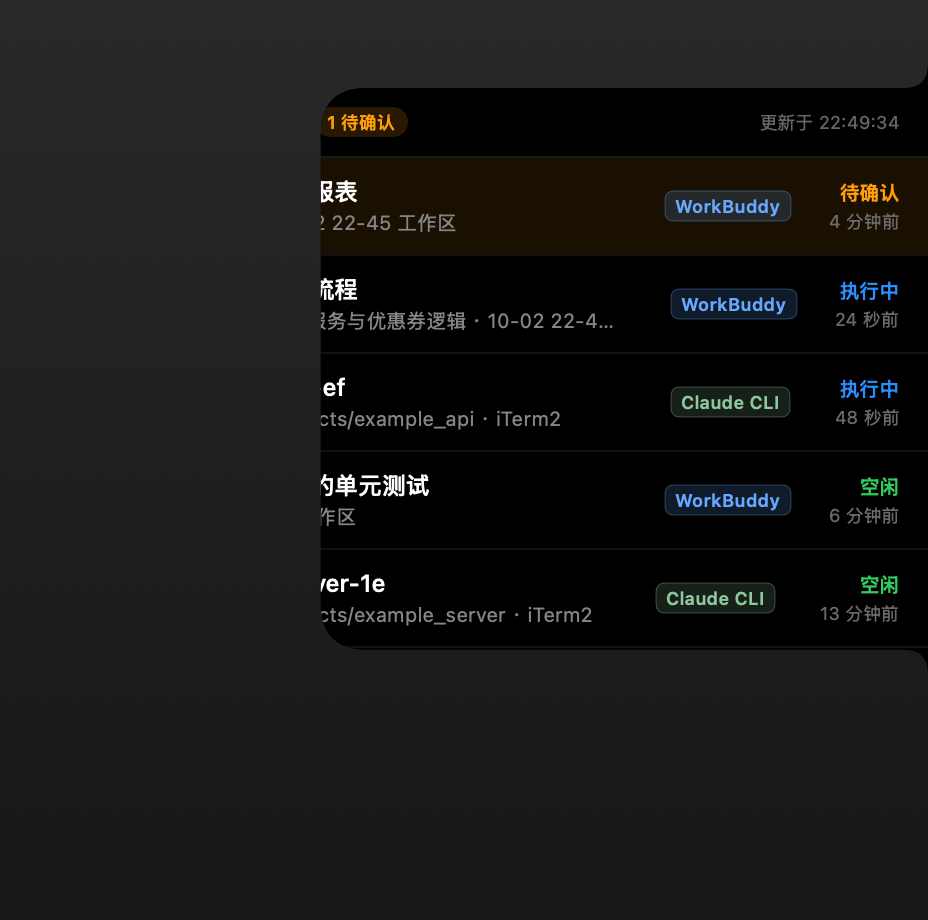
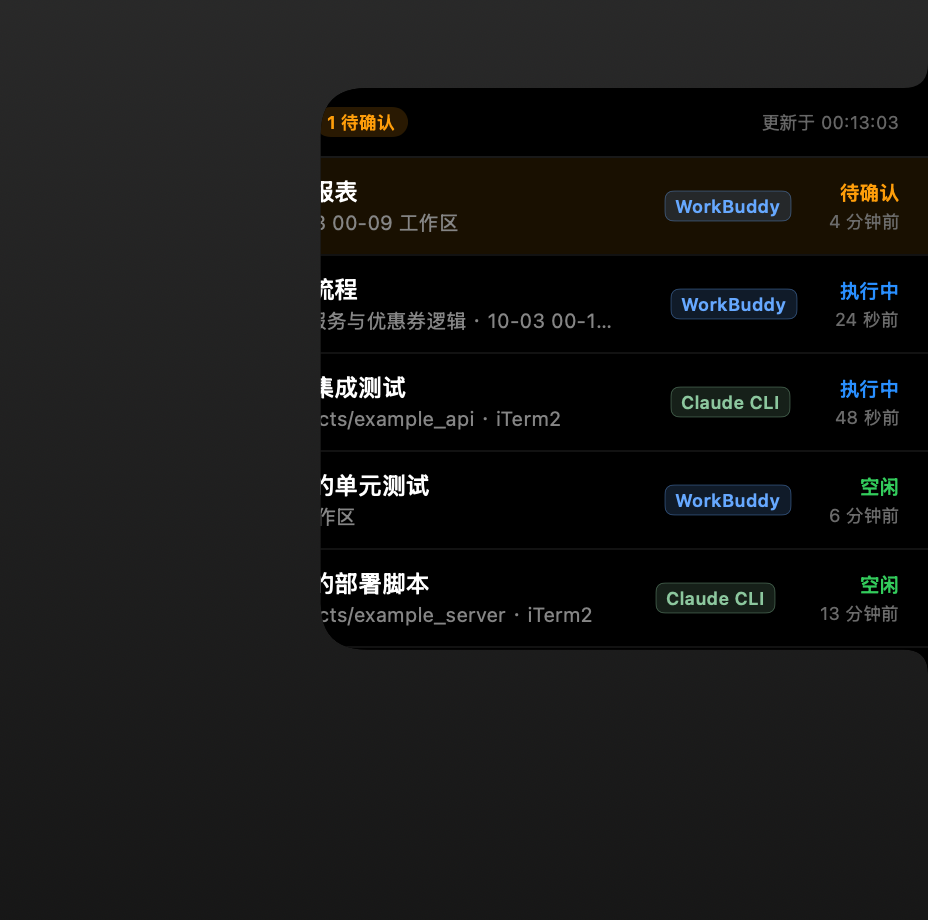
feat(cli): 任务行改用 Claude 自己起的会话标题
列表里 CLI 行的标题以前取的是注册表 ~/.claude/sessions/<pid>.json 里的 name，
那是派生的（kiki-2d、tool-webpage-01 这种），跟 iTerm2 标签页上看到的对不上。

Claude 真正起的标题写在会话记录 projects/<cwd>/<sessionId>.jsonl 的
{"type":"ai-title","aiTitle":"…"} 记录里，会随会话推进反复重写。
实测同一会话从 tool-webpage-01 变成「继续开发 notch_tasks Mac 应用」，
再变成 kiki-release-process。

- ClaudeSession 增加 aiTitle / displayTitle，标题优先用 aiTitle，取不到再退回派生名
- 只读记录文件尾部 256 KB 往前找最近一条（标题反复重写，尾部几乎总能命中）；
  尾部没命中再整文件扫，但设了 8 MB 上限，别为一个几十 MB 的记录拖住 2 秒轮询
- 按 mtime + size 缓存，轮询不会重复解析同一份记录；表超过 128 条就清空
- 按文件名 <sessionId>.jsonl 找记录，不去猜 cwd 到目录名的转义规则
- 从任意字节偏移切进去可能劈开多字节字符，解码失败就丢掉首行残缺部分
- 演示数据同步成这种标题，docs 截图重新生成

顺带在文档里记下一个容易误判的现象：~/.claude/sessions/ 会被 Claude Code
自己按日清理（~/.claude/.last-cleanup），清完那一刻目录是空的，
列表里没有 CLI 会话属于数据源正常行为，不是 App 读不到。

diff --git a/Sources/ClaudeStore.swift b/Sources/ClaudeStore.swift
@@ -6,7 +6,11 @@ struct ClaudeSession {
     var pid: pid_t
     var sessionID: String
     var cwd: String
+    /// 注册表里的会话名（多是派生的，如 `kiki-2d`）
     var name: String
+    /// Claude 自己起的会话标题，也就是它写进终端标签的那个名字
+    /// （读自会话记录的 `ai-title` 记录，见 ClaudeStore.transcriptTitle）
+    var aiTitle: String?
     var status: String        // busy / idle / waiting
     var waitingFor: String?   // 仅 status == waiting 时出现，例如 "permission prompt"
     var updatedAt: Date
@@ -17,23 +21,53 @@ struct ClaudeSession {
     var isBusy: Bool { status.lowercased() == "busy" }
     /// 停在等用户确认 / 授权
     var isWaiting: Bool { status.lowercased() == "waiting" }
+
+    /// 列表里显示的名字：优先用 Claude 起的标题（和终端标签对得上），
+    /// 会话刚开始、AI 还没来得及起标题时退回注册表里的派生名
+    var displayTitle: String {
+        if let t = aiTitle, !t.isEmpty { return t }
+        return name.isEmpty ? "claude" : name
+    }
 }
 
 /// 只读扫描 Claude Code 的会话注册表。
 ///
-/// 数据源：`~/.claude/sessions/<pid>.json`，形如
-/// `{"pid":44187,"sessionId":"…","cwd":"…","name":"crewup-api-ef","status":"idle","updatedAt":…}`
-/// `status` 已知取值：`busy`（干活）/ `idle`（等你输入）/ `waiting`（等你确认或授权，
-/// 此时会多一个 `waitingFor` 字段，例如 `"permission prompt"`）
-/// 文件名就是 PID，所以可以用 `kill(pid,0)` + `proc_pidpath` 判断会话是否还活着，
-/// 并排除 PID 被复用的情况。全程只读，不碰 Claude 的任何文件。
+/// 数据源有两处，都是只读：
+///
+/// 1. `~/.claude/sessions/<pid>.json`（文件名就是 PID）——「现在还活着哪些会话」
+///    ```json
+///    {"pid":44187,"sessionId":"…","cwd":"…","name":"kiki-2d","nameSource":"derived",
+///     "status":"busy","updatedAt":…,"statusUpdatedAt":…}
+///    ```
+///    `status` 已知取值：`busy`（干活）/ `idle`（等你输入）/ `waiting`（等你确认或授权，
+///    此时会多一个 `waitingFor` 字段，例如 `"permission prompt"`）
+///    文件名是 PID，所以可以用 `kill(pid,0)` + `proc_pidpath` 判断会话是否还活着，
+///    并排除 PID 被复用的情况。注意 **这个目录会被 Claude Code 自己按日清理**
+///    （见 `~/.claude/.last-cleanup`），清理后要等下一个会话注册进来才有内容。
+///
+/// 2. `~/.claude/projects/<cwd 转义>/<sessionId>.jsonl`——「这个会话在做什么」。
+///    里面的 `{"type":"ai-title","aiTitle":"…"}` 记录就是 Claude 给会话起的标题，
+///    会随会话推进反复重写（所以从文件尾部往前找最近的一条即可）。
 enum ClaudeStore {
 
     static let sessionsDir = (NSHomeDirectory() as NSString).appendingPathComponent(".claude/sessions")
+    static let projectsDir = (NSHomeDirectory() as NSString).appendingPathComponent(".claude/projects")
+
+    /// 从记录尾部往回找多少字节；标题会反复重写，尾部几乎总能命中
+    private static let tailBytes = 256 * 1024
+    /// 尾部没命中时退回整文件扫描的上限，别为一个几十 MB 的记录把轮询拖住
+    private static let fullScanLimit = 8 * 1024 * 1024
+
+    /// 记录文件 → 上次解析结果。轮询每 2 秒跑一次，靠它避免反复读同一条记录
+    private static var titleCache: [String: (mtime: Date, size: Int, title: String?)] = [:]
 
     static func scan() -> [ClaudeSession] {
         let fm = FileManager.default
         guard let files = try? fm.contentsOfDirectory(atPath: sessionsDir) else { return [] }
+
+        // 记录目录只列一次，之后每个会话在里面找自己的 <sessionId>.jsonl
+        let projectDirs = ((try? fm.contentsOfDirectory(atPath: projectsDir)) ?? [])
+            .map { (projectsDir as NSString).appendingPathComponent($0) }
 
         var out: [ClaudeSession] = []
         for f in files where f.hasSuffix(".json") {
@@ -55,12 +89,14 @@ enum ClaudeStore {
             let cwd = obj["cwd"] as? String ?? ""
             let name = (obj["name"] as? String).flatMap { $0.isEmpty ? nil : $0 }
                 ?? (cwd as NSString).lastPathComponent
+            let sessionID = obj["sessionId"] as? String ?? ""
 
             out.append(ClaudeSession(
                 pid: pid,
-                sessionID: obj["sessionId"] as? String ?? "",
+                sessionID: sessionID,
                 cwd: cwd,
                 name: name.isEmpty ? "claude" : name,
+                aiTitle: transcriptTitle(sessionID: sessionID, in: projectDirs),
                 status: obj["status"] as? String ?? "",
                 waitingFor: (obj["waitingFor"] as? String).flatMap { $0.isEmpty ? nil : $0 },
                 updatedAt: updated,
@@ -74,6 +110,70 @@ enum ClaudeStore {
     static func liveSessions() -> [ClaudeSession] {
         scan().filter { $0.alive && $0.isClaude }
     }
+
+    // MARK: - 会话标题（= Claude 写进终端标签的那个名字）
+
+    /// 会话记录的文件名就是 sessionId（UUID），所以按文件名找即可，
+    /// 不用去猜 cwd 到目录名的转义规则
+    private static func transcriptTitle(sessionID: String, in projectDirs: [String]) -> String? {
+        guard !sessionID.isEmpty else { return nil }
+        for dir in projectDirs {
+            let path = (dir as NSString).appendingPathComponent("\(sessionID).jsonl")
+            if let t = transcriptTitle(path: path) { return t }
+        }
+        return nil
+    }
+
+    private static func transcriptTitle(path: String) -> String? {
+        let fm = FileManager.default
+        guard let attrs = try? fm.attributesOfItem(atPath: path),
+              let mtime = attrs[.modificationDate] as? Date,
+              let size = (attrs[.size] as? NSNumber)?.intValue, size > 0 else { return nil }
+
+        if let hit = titleCache[path], hit.mtime == mtime, hit.size == size {
+            return hit.title
+        }
+
+        var found = lastAITitle(at: path, from: max(0, size - tailBytes))
+        if found == nil, size > tailBytes, size <= fullScanLimit {
+            found = lastAITitle(at: path, from: 0)
+        }
+
+        titleCache[path] = (mtime, size, found)
+        // 会话来来去去，别让这个表无限涨；真溢出了清空重来也无所谓
+        if titleCache.count > 128 { titleCache.removeAll() }
+        return found
+    }
+
+    /// 从 offset 开始读到底，取最后一条 `{"type":"ai-title","aiTitle":"…"}` 里的标题
+    private static func lastAITitle(at path: String, from offset: Int) -> String? {
+        guard let handle = FileHandle(forReadingAtPath: path) else { return nil }
+        defer { try? handle.close() }
+        guard (try? handle.seek(toOffset: UInt64(offset))) != nil,
+              let data = try? handle.readToEnd() else { return nil }
+
+        // 从任意字节偏移切进去可能把某个多字节字符劈成两半，解码失败就丢掉首行残缺部分
+        func decode(_ d: Data) -> String? {
+            if let s = String(data: d, encoding: .utf8) { return s }
+            if let nl = d.firstIndex(of: 0x0A) {
+                return String(data: d[d.index(after: nl)...], encoding: .utf8)
+            }
+            return nil
+        }
+        guard let text = decode(data) else { return nil }
+
+        for line in text.split(separator: "\n").reversed() {
+            guard line.contains("aiTitle") else { continue }
+            guard let lineData = line.data(using: .utf8),
+                  let obj = try? JSONSerialization.jsonObject(with: lineData) as? [String: Any],
+                  let raw = obj["aiTitle"] as? String else { continue }
+            let t = raw.trimmingCharacters(in: .whitespacesAndNewlines)
+            if !t.isEmpty { return t }
+        }
+        return nil
+    }
+
+    // MARK: - 进程存活
 
     private static func isAlive(_ pid: pid_t) -> Bool {
         if kill(pid, 0) == 0 { return true }

diff --git a/Sources/TaskStore.swift b/Sources/TaskStore.swift
@@ -332,7 +332,7 @@ final class TaskStore: ObservableObject {
 
             return TaskItem(id: "\(s.pid)",
                             kind: .claude,
-                            title: s.name,
+                            title: s.displayTitle,   // Claude 起的会话标题，和终端标签一致
                             detail: detail,
                             cwd: s.cwd,
                             state: state,
@@ -386,8 +386,9 @@ final class TaskStore: ObservableObject {
                      state: .needConfirm, updatedAt: minutesAgo(4),
                      needsConfirm: true),
 
+            // CLI 行的标题是 Claude 自己起的会话标题（ai-title），不是派生名
             TaskItem(id: "demo-c1", kind: .claude,
-                     title: "example-api-ef",
+                     title: "补上接口层的集成测试",
                      detail: "正在执行",
                      cwd: home + "/Projects/example_api",
                      state: .running, updatedAt: minutesAgo(0.8)),
@@ -400,7 +401,7 @@ final class TaskStore: ObservableObject {
                      state: .done, updatedAt: minutesAgo(6)),
 
             TaskItem(id: "demo-c2", kind: .claude,
-                     title: "example-server-1e",
+                     title: "梳理示例服务的部署脚本",
                      detail: "等你输入",
                      cwd: home + "/Projects/example_server",
                      state: .idle, updatedAt: minutesAgo(13)),

diff --git a/README.md b/README.md
@@ -133,6 +133,7 @@ cd notch_tasks
 | `~/.workbuddy/workbuddy.db` → `automation_runs` | 自动化运行，`read_at IS NULL` = 待确认 |
 | `~/.workbuddy/tasks/<sessionId>/*.json` | 当前 `in_progress` 子任务，显示成「正在：…」 |
 | `~/.claude/sessions/<pid>.json` | 终端里 Claude Code CLI 的会话与执行状态 |
+| `~/.claude/projects/<cwd>/<sessionId>.jsonl` | 会话记录里的 `ai-title`——即 Claude 给终端标签起的标题 |
 
 **零写入保证**：程序从不打开原库。每一轮把 `workbuddy.db` / `-wal` / `-shm`
 复制到系统临时目录 `notchtasks-snapshot/`，只在副本上查询，并加 `PRAGMA query_only = ON`。
@@ -155,8 +156,19 @@ cd notch_tasks
 - 未知取值一律按「运行中」处理，原始英文只写进 `NOTCHTASKS_DEBUG` 日志，不显示到界面上
 - 存活判断：`kill(pid, 0)` **加上** `proc_pidpath` 校验可执行文件路径里含 `claude`——
   只看 PID 会被系统复用骗到，出现早就退出的"幽灵会话"
-- 标题用 Claude 自己给会话起的 `name`（同时也是终端的标签页标题），方便和 iTerm2 对上
 - 时间取「`updatedAt` 字段」与「文件 mtime」里更晚的那个
+
+**列表里的标题来自会话记录，不是注册表。** 注册表里那个 `name`（如 `kiki-2d`）
+是派生的，跟终端标签对不上；Claude 真正起的标题写在
+`projects/<cwd 转义>/<sessionId>.jsonl` 的 `{"type":"ai-title","aiTitle":"…"}` 记录里，
+会随会话推进反复重写。所以从记录**尾部**往前找最近的一条（只读尾部 256 KB，
+按 mtime + size 缓存，不必反复解析几十 MB 的记录）；会话刚开始还没标题时，
+退回用注册表里的派生名。
+
+> 顺带一个容易误判的现象：`~/.claude/sessions/` 会被 Claude Code 自己**按日清理**
+> （见 `~/.claude/.last-cleanup`）。清理后那一刻目录是空的，
+> App 自然一条 CLI 会话也列不出来，直到下一个会话注册进来。这是数据源的正常行为，
+> 不是 App 读不到。
 
 </details>
 

diff --git a/CONTRIBUTING.md b/CONTRIBUTING.md
@@ -128,6 +128,11 @@ SwiftUI 的 `Button` / `onTapGesture` 收不到点击。所以行点击和底栏
 - Claude Code `status` 取值是 `busy` / `idle` / `waiting`。
   **`waiting` 表示停在等你确认 / 授权**，此时会多一个 `waitingFor` 字段
   （如 `"permission prompt"`）——漏了它就会掉进兜底分支，把英文状态显示到界面上
+- 两处容易误判的地方：
+  - `~/.claude/sessions/` 会被 Claude Code **按日清理**，清完那一刻是空的，
+    「列表里没有 CLI 会话」很可能只是没会话在跑，不是读不到
+  - 列表标题要读**会话记录**里的 `ai-title`，不是注册表里的 `name`——
+    后者是派生的（`kiki-2d` 这种），跟终端标签对不上
 
 遇到没见过的取值：映射按「运行中」兜底，原始值写进 `NOTCHTASKS_DEBUG` 日志，别直接显示给用户。
 

diff --git a/CHANGELOG.md b/CHANGELOG.md
@@ -5,6 +5,19 @@
 
 ## [Unreleased]
 
+### 新增
+
+- **CLI 任务行改用 Claude 自己起的会话标题**：以前显示的是注册表里的派生名
+  （`kiki-2d` 这种），跟 iTerm2 标签页上看到的对不上。现在读会话记录
+  `projects/<cwd>/<sessionId>.jsonl` 里的 `{"type":"ai-title","aiTitle":"…"}`——
+  这正是 Claude 写进终端标签的那个标题。只读文件尾部 256 KB 并按 mtime + size 缓存，
+  不必反复解析几十 MB 的记录；会话刚开始还没标题时退回派生名
+
+### 文档
+
+- 说明 `~/.claude/sessions/` 会被 Claude Code **按日清理**（`~/.claude/.last-cleanup`），
+  清理后那一刻目录为空、列表里没有 CLI 会话，属于数据源的正常行为
+
 ## [1.0.0] - 2026-10-02
 
 首个版本：屏幕右边缘的一枚把手，鼠标扫过去向左展开，把 **WorkBuddy** 与
